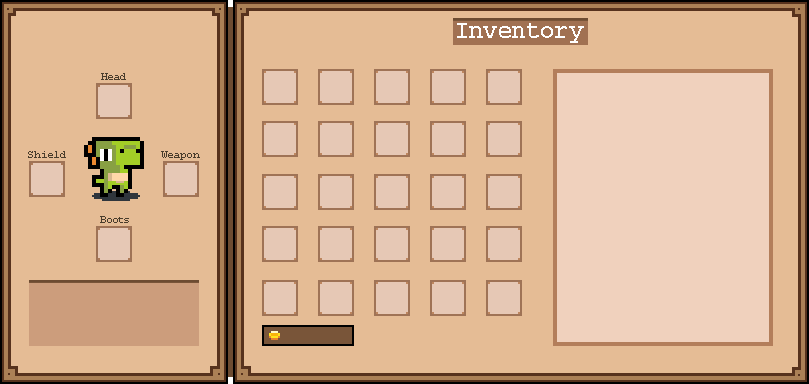
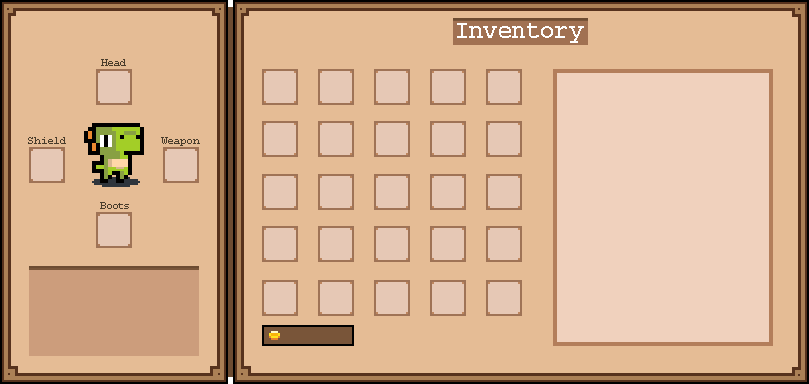
Introduce critical dmg and chance for creatures

diff --git a/src/menu/inventory.py b/src/menu/inventory.py
@@ -149,13 +149,13 @@ def equipment_menu(surface, player_input):
     for equipped_item in globalvars.PLAYER.container.equipped_inventory:
 
         if equipped_item.equipment.slot == "weapon":
-            item_x, item_y = 165, 163
+            item_x, item_y = 165, 149
         elif equipped_item.equipment.slot == "shield":
-            item_x, item_y = 31, 163
+            item_x, item_y = 31, 149
         elif equipped_item.equipment.slot == "head":
-            item_x, item_y = 98, 85
+            item_x, item_y = 98, 71
         elif equipped_item.equipment.slot == "boots":
-            item_x, item_y = 98, 228
+            item_x, item_y = 98, 214
         else:
             item_x, item_y = 0, 0
 
@@ -289,32 +289,54 @@ def display_item_info(surface, target_item, player_input):
 
 
 def display_stats(surface):
-    stats_surface_width, stats_surface_height = 170, 66
-    stats_x, stats_y = 29, 280
+    stats_surface_width, stats_surface_height = 170, 90
+    stats_x, stats_y = 29, 266
     stats_surface = pygame.Surface((stats_surface_width, stats_surface_height))
     stats_font = constants.FONT_BEST
     text_height = text.get_text_height(stats_font)
 
-    atk_text = "Attack:"
-    def_text = "Defence:"
+    atk_text = "Atk:"
+    def_text = "Def:"
     atk_value = f"{globalvars.PLAYER.creature.attack_points}"
     def_value = f"{globalvars.PLAYER.creature.defence}"
+    crit_chance_text = "Crit Chance:"
+    crit_dmg_text = "Crit Dmg:"
+    crit_chance_val = f"{globalvars.PLAYER.creature.crit_chance}%"
+    crit_dmg_val = f"{int(globalvars.PLAYER.creature.crit_dmg * 100)}%"
 
     exp_text = "Total Exp:"
     exp_value = f"{globalvars.PLAYER.exp_total}"
 
-    atk_text_coords = (6, 6)
-    atk_value_coords = (stats_surface_width - text.get_text_width(stats_font, atk_value) - 6, 6)
-    def_text_coords = (6, 6 + text_height + 2)
-    def_value_coords = (stats_surface_width - text.get_text_width(stats_font, def_value) - 6, 6 + text_height + 2)
-    exp_text_coords = (6, def_text_coords[1] + text_height + 2)
+    atk_text_coords = (6, 4)
+    atk_value_coords = (stats_surface_width - text.get_text_width(stats_font, atk_value) - 6, 4)
+
+    def_text_coords = (6, atk_text_coords[1] + text_height + 1)
+    def_value_coords = (stats_surface_width - text.get_text_width(stats_font, def_value) - 6,
+                        atk_text_coords[1] + text_height + 1)
+
+    crit_chance_text_coords = (6, def_text_coords[1] + text_height + 1)
+    crit_chance_value_coords = (stats_surface_width - text.get_text_width(stats_font, crit_chance_val) - 6,
+                                def_text_coords[1] + text_height + 1)
+
+    crit_dmg_text_coords = (6, crit_chance_text_coords[1] + text_height + 1)
+    crit_dmg_value_coords = (stats_surface_width - text.get_text_width(stats_font, crit_dmg_val) - 6,
+                             crit_chance_text_coords[1] + text_height + 1)
+
+    exp_text_coords = (6, crit_dmg_text_coords[1] + text_height + 1)
     exp_value_coords = (stats_surface_width - text.get_text_width(stats_font, exp_value) - 6,
-                        def_text_coords[1] + text_height + 2)
+                        crit_dmg_text_coords[1] + text_height + 1)
 
     text.draw_text(stats_surface, atk_text, stats_font, atk_text_coords, pygame.Color("#112d4e"))
     text.draw_text(stats_surface, atk_value, stats_font, atk_value_coords, pygame.Color("#3f72af"))
+
     text.draw_text(stats_surface, def_text, stats_font, def_text_coords, pygame.Color("#112d4e"))
     text.draw_text(stats_surface, def_value, stats_font, def_value_coords, pygame.Color("#3f72af"))
+
+    text.draw_text(stats_surface, crit_chance_text, stats_font, crit_chance_text_coords, pygame.Color("#112d4e"))
+    text.draw_text(stats_surface, crit_chance_val, stats_font, crit_chance_value_coords, pygame.Color("#3f72af"))
+
+    text.draw_text(stats_surface, crit_dmg_text, stats_font, crit_dmg_text_coords, pygame.Color("#112d4e"))
+    text.draw_text(stats_surface, crit_dmg_val, stats_font, crit_dmg_value_coords, pygame.Color("#3f72af"))
 
     text.draw_text(stats_surface, exp_text, stats_font, exp_text_coords, pygame.Color("#521262"))
     text.draw_text(stats_surface, exp_value, stats_font, exp_value_coords, pygame.Color("#6639a6"))

diff --git a/src/components/creature.py b/src/components/creature.py
@@ -21,6 +21,10 @@ class ComCreature:
         Max health points of the creature. Default is 10.
     base_atk : int
         Base attack points of the creature. Default is 2.
+    crit_chance : float
+        Chance in percentage of hitting a critical attack when attacking. Default is 5%.
+    crit_dmg: float
+        Percentage of normal attack a critical attack will do. Default is 150%
     base_def : int
         Base defence points of the creature. Default is 0.
     current_hp : int
@@ -49,6 +53,8 @@ class ComCreature:
         self.personal_name = personal_name
         self.max_hp = max_hp
         self.base_atk = base_atk
+        self.crit_chance = 5
+        self.crit_dmg = 1.5
         self.base_def = base_def
         self.current_hp = max_hp
         self.death_function = death_function
@@ -66,18 +72,7 @@ class ComCreature:
         bonuses.
 
         """
-        additional_random = 0
-
-        if 1 <= self.base_atk <= 12:
-            additional_random = tcod.random_get_int(0, 0, 1)
-        elif 13 <= self.base_atk <= 24:
-            additional_random = tcod.random_get_int(0, 0, 2)
-        elif 25 <= self.base_atk <= 40:
-            additional_random = tcod.random_get_int(0, 0, 3)
-        elif self.base_atk > 40:
-            additional_random = tcod.random_get_int(0, 0, 5)
-
-        total_power = self.attack_points + additional_random
+        total_power = self.attack_points
 
         return total_power
 
@@ -291,7 +286,15 @@ class ComCreature:
         None
 
         """
-        dmg_dealt = max(self.power - target.creature.defence, 0)
+        if tcod.random_get_int(0, 0, 100) < self.crit_chance:
+            dmg = math.floor((self.crit_dmg * self.power) + 0.5)
+        else:
+            dmg = self.power
+
+        if self.owner is globalvars.PLAYER:
+            print(dmg)
+
+        dmg_dealt = max(dmg - target.creature.defence, 0)
 
         victim_name = target.display_name
         attacker_name = self.owner.display_name
